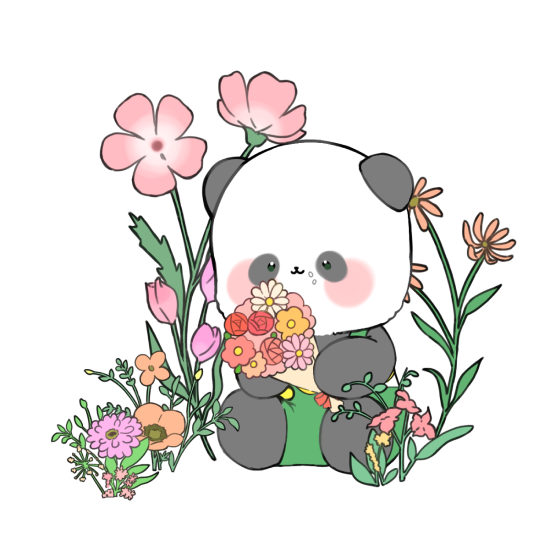
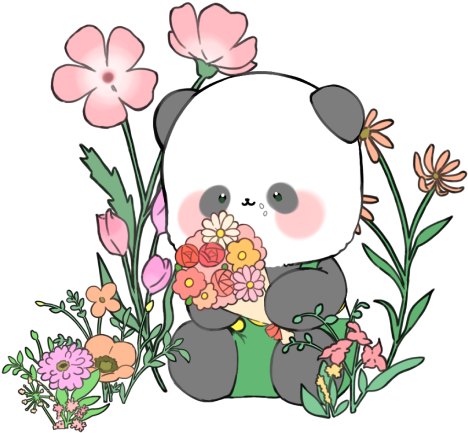
main

diff --git a/index.html b/index.html
@@ -52,13 +52,13 @@
               <h1 class="title">第47回創陵祭</h1>
               <h4 class="subtitle">Hug ~わたしたちの花束~</h4>
             </div>
-            <p>創陵祭とは学園全体が舞台となる、学校の創立を記念し祝う清真学園の文化祭である。＜仮＞</p>
+            <p>創陵祭とは、学園全体が舞台となる、学校の創立を記念し祝う清真学園の文化祭です。＜仮＞</p>
           </div>
           <img class="haguta1" src="/img/haguta1.jpg">
         </div>
         <div class="about-block">
           <div class="about-1">
-            <p>今回のテーマには抱擁や考えを抱く「Hug」という意味と、生徒一人ひとりを花に見立て、それらがひとつになった唯一無二の花束を作り上げて欲しいという願いが込められている。＜仮＞</p>  
+            <p>今回のテーマには、抱擁や考えを抱く「Hug」という意味と、生徒一人ひとりを花に見立てそれらがひとつになった唯一無二の花束を作り上げて欲しいという願いが込められています。＜仮＞</p>  
           </div>
           <!--
           <div>
@@ -68,6 +68,22 @@
           -->
         </div>
       </div>
+      <div class="haguta">
+        <div class="haguta-top">
+          <img class="haguta-img" src="/img/haguta.png">
+          <h4 style="font-size: 16px;">第47回創陵祭マスコット</h4>
+          <h3 style="font-size: 24px;">『はぐ太』</h3>
+        </div>
+        <div>
+
+        </div>
+        <div><p style="margin-top: 8px;text-align: center;">今回のテーマのような、思わず『Hug』したくなるようなふわふわしたマスコット！ <br>「抱擁」の花言葉を持つ「くまざさ」という植物にちなんで、パンダがモチーフになっています！</p></div>
+        <div>
+          <p style="text-align: left;margin: 8px 0px 0px 4px;">年齢:1歳（人間でいう3歳です！）</p>
+          <p style="text-align: left;margin-left: 4px;">誕生日:8月9日　体重:89kg</p>
+        </div>
+      </div>
+      <hr>
       <div class="insta-block">
         <div class="insta-2">
           <div class="insta-1">
@@ -90,22 +106,22 @@
         <ul class="menu-ul">
           <li class="menu-item">
             <img class="onigiri" src="img/onigiri.jpg">
-            <h3>タイムテーブル</h3>
+            <h3 class="item-h3">タイムテーブル</h3>
             <img class="link-window" src="img/link_window.svg">
           </li>   
           <li class="menu-item">
             <img class="onigiri" src="img/onigiri.jpg">
-            <h3>企画一覧</h3>
+            <h3 class="item-h3">企画一覧</h3>
             <img class="link-window" src="img/link_window.svg">
           </li>  
           <li class="menu-item">
             <img class="onigiri" src="img/onigiri.jpg">
-            <h3>ポスターコンテスト</h3>
+            <h3 class="item-h3">ポスターコンテスト</h3>
             <img class="link-window" src="img/link_window.svg">
           </li> 
           <li class="menu-item">
             <img class="onigiri" src="img/onigiri.jpg">
-            <h3>フロアマップ</h3>
+            <h3 class="item-h3">フロアマップ</h3>
             <img class="link-window" src="img/link_window.svg">
           </li>    
         </ul>
@@ -278,16 +294,12 @@
         </div>
 
       </div>
-      <hr>
-      <div class="haguta">
-
-      </div>
     </div>
     <footer>
       <div class="footer-top">
         <img class="soryosai-logo" src="/img/soryosai1.png">
         <ul class="footer-list">
-          <!--<li class="footer-item about-soryosai">創陵祭について</li>-->
+          <li class="footer-item about-soryosai">パンフレット[PDF]</li>
           <li class="footer-item">タイムテーブル</li>
           <li class="footer-item">企画一覧</li>
           <li class="footer-item">ポスターコンテスト</li>

diff --git a/css/index.css b/css/index.css
@@ -1,6 +1,7 @@
 body {
   font-family: 'Noto Sans JP', sans-serif;
   font-weight: 500;
+  font-size: 16px;
 }
 
 .poster {
@@ -11,7 +12,7 @@ body {
 .main {
   display: flex;
   flex-direction: column;
-  row-gap: 16px;
+  row-gap: 20px;
   padding: 4px 30px 24px 30px;
 }
 
@@ -46,7 +47,7 @@ body {
   position: relative;
   display: flex;
   justify-content: space-between;
-  margin-bottom: 12px;
+  margin-bottom: 24px;
 }
 
 .more-about {
@@ -56,13 +57,13 @@ body {
 .about-1 {
   display: flex;
   flex-direction: column;
-  row-gap: 12px;
+  row-gap: 0px;
 }
 
 .about-block {
   display: flex;
   flex-direction: column;
-  align-items: flex-end;
+  align-items: flex-start;
   row-gap: 4px;
   margin-bottom: 16px;
 }
@@ -113,6 +114,10 @@ body {
   list-style: none;
   font-weight: bold;
   font-size: 23px;
+}
+
+.item-h3 {
+  font-size: 24px;
 }
 
 .onigiri {
@@ -192,13 +197,13 @@ footer {
   margin-top: 8px;
 }
 .about-soryosai {
-  margin: 8px 0px 12px 0px;
+  margin: 0px 0px 8px 0px;
 }
 .footer-item  {
   list-style: none;
 }
 .soryosai-logo {
-  width: 140px;
+  width: 139px;
   height: 61px;
 }
 .seishin-logo {
@@ -243,4 +248,16 @@ hr {
 .medabon-hr {
   border-top: 1px solid #cacaca;
   margin: 2px 0px 8px 0px;
+}
+
+.haguta-img {
+  width: calc(100vw - 80px);
+  height: 100%;
+}
+
+.haguta-top {
+  display: flex;
+  flex-direction: column;
+  justify-content: center;
+  align-items: center;
 }
